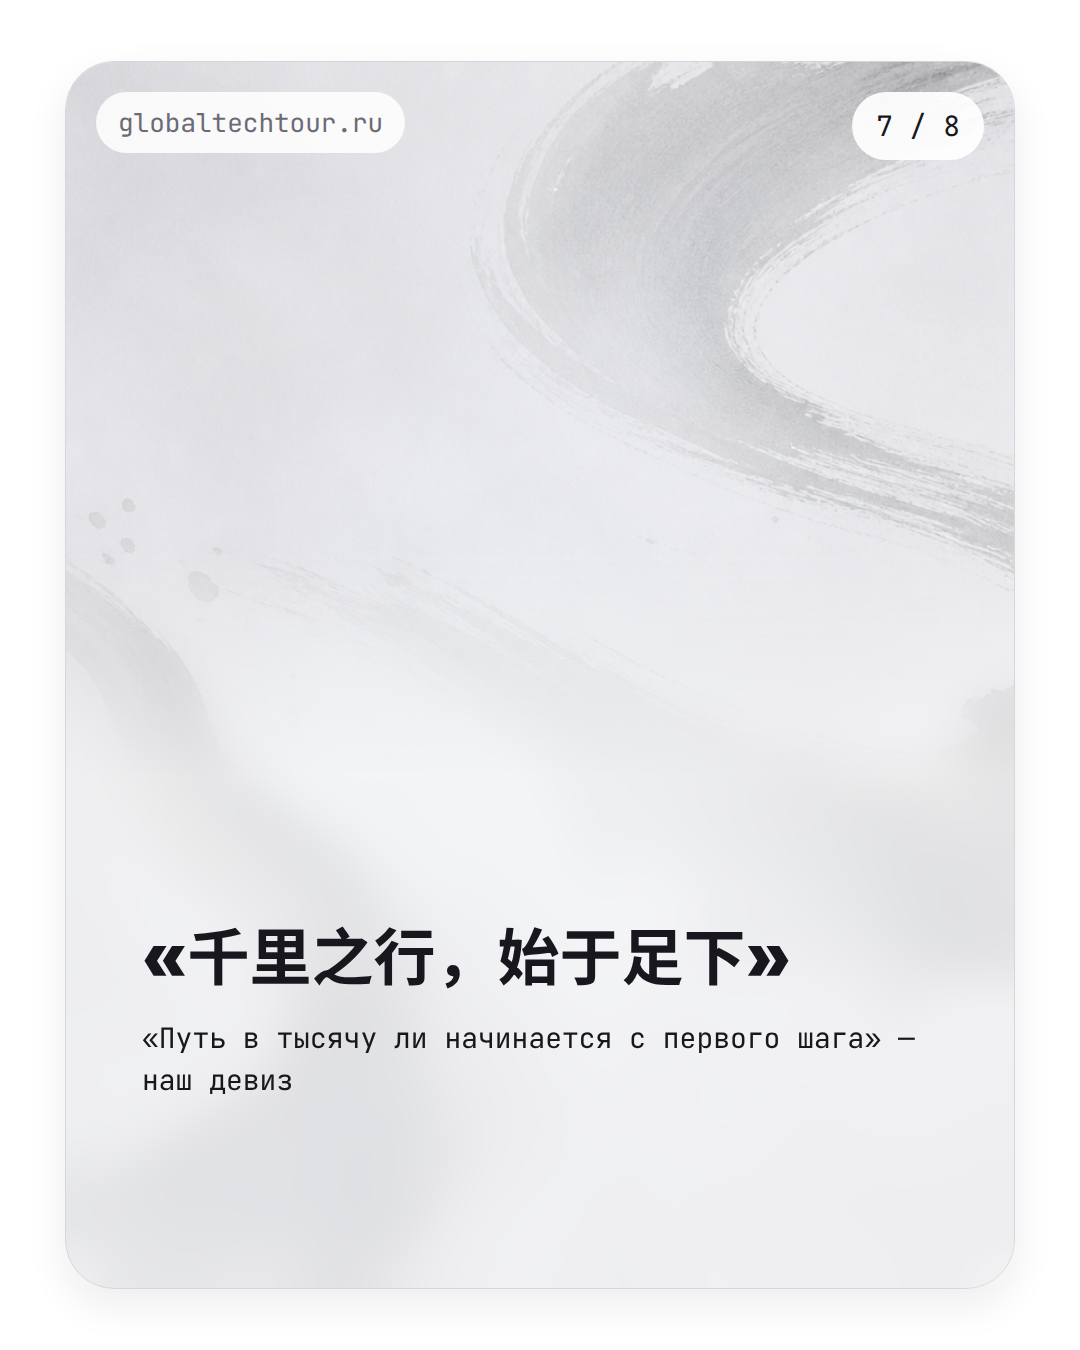
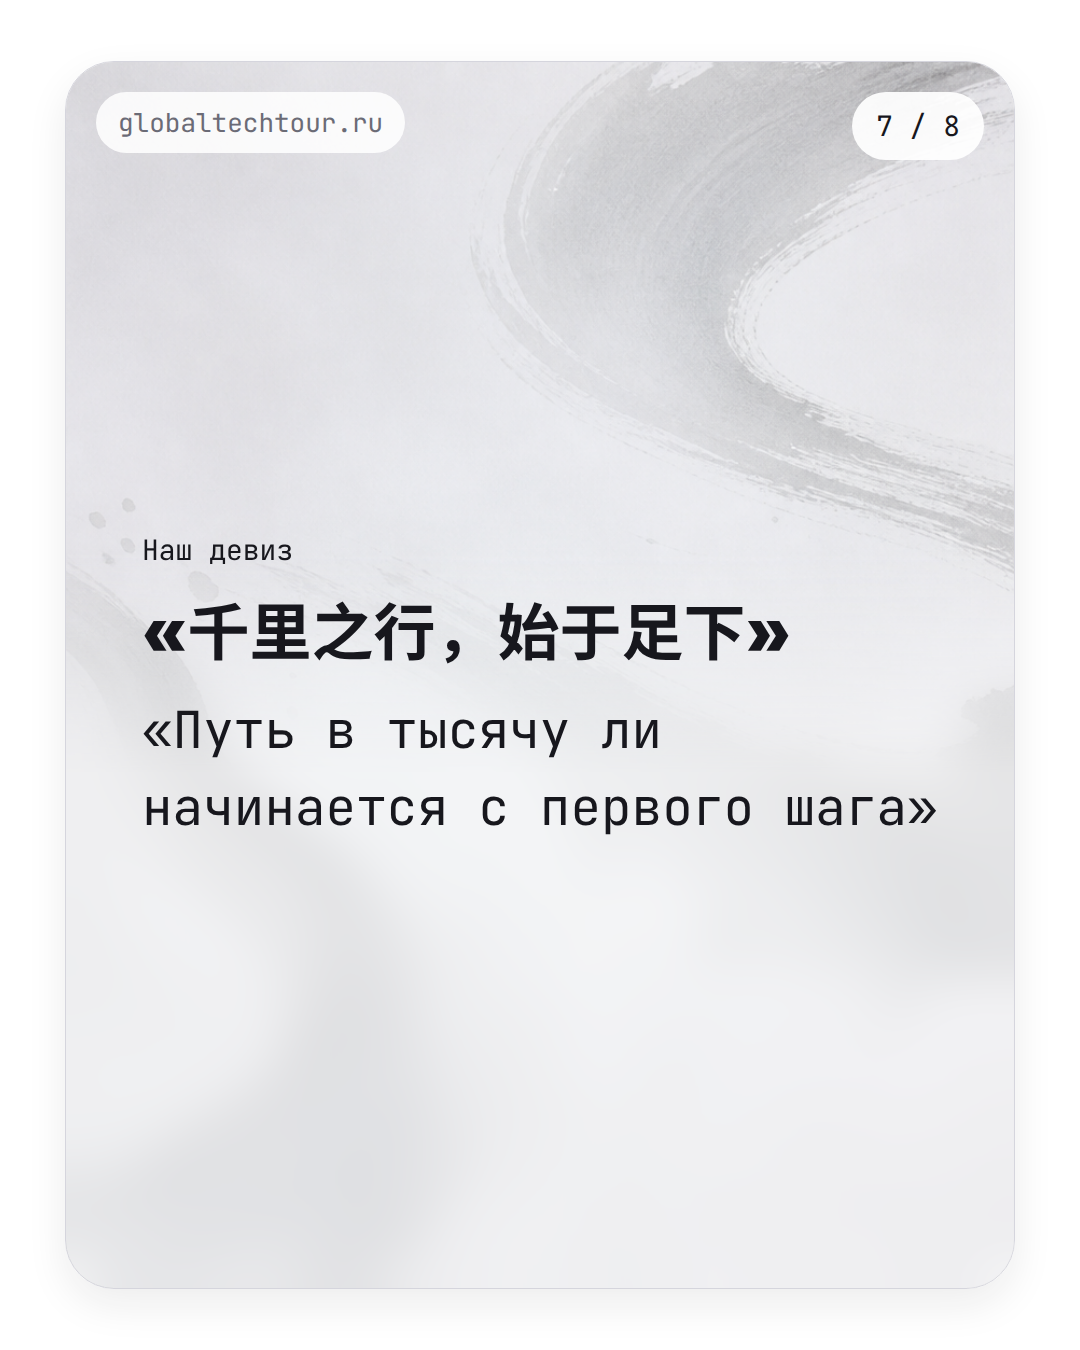
Quote type: add kicker label above main text; move 'Наша миссия' up, raise/enlarge calligraphy slide 7

diff --git a/remotion-video-tools/src/shared/components/carousel/types.ts b/remotion-video-tools/src/shared/components/carousel/types.ts
@@ -114,7 +114,15 @@ export const slideSchema = z.discriminatedUnion("type", [
   z.object({
     type: z.literal("quote"),
     text: z.string().describe("Цитата"),
-    author: z.string().describe("Кто сказал"),
+    author: z.string().describe("Кто сказал — показывается под цитатой"),
+    kicker: z
+      .string()
+      .describe("Короткая надпись над цитатой (например 'Наша миссия', 'Наш девиз')")
+      .optional(),
+    kickerScale: z
+      .number()
+      .describe("Во сколько раз увеличить размер надписи над цитатой (kicker)")
+      .optional(),
     image: z.string().describe("Фон-картинка из public; пусто — фирменный фон").optional(),
     cornerTheme,
     textScale: z

diff --git a/remotion-video-tools/src/shared/components/carousel/CarouselSlide.tsx b/remotion-video-tools/src/shared/components/carousel/CarouselSlide.tsx
@@ -493,6 +493,17 @@ export const CarouselSlide: React.FC<CarouselSlideProps> = ({
                   const quoteColor = cornerTheme === "dark" ? "#ffffff" : theme.colors.text;
                   return (
                     <>
+                      {slide.kicker ? (
+                        <div
+                          style={{
+                            fontFamily: fontFamily(theme.fonts.mono),
+                            fontSize: fs(0.026 * (slide.kickerScale ?? 1)),
+                            color: quoteColor,
+                          }}
+                        >
+                          {slide.kicker}
+                        </div>
+                      ) : null}
                       <p
                         style={{
                           margin: 0,
